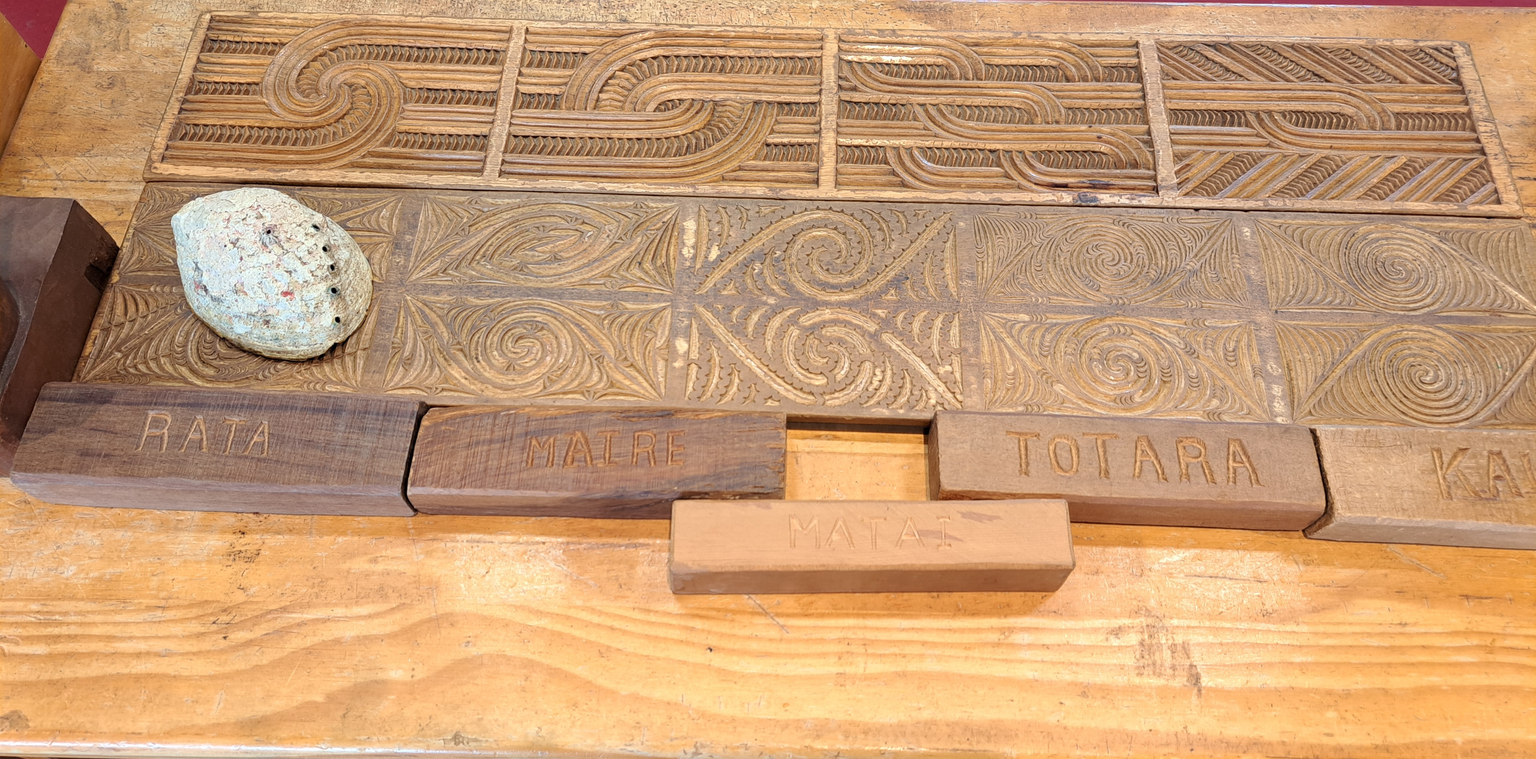
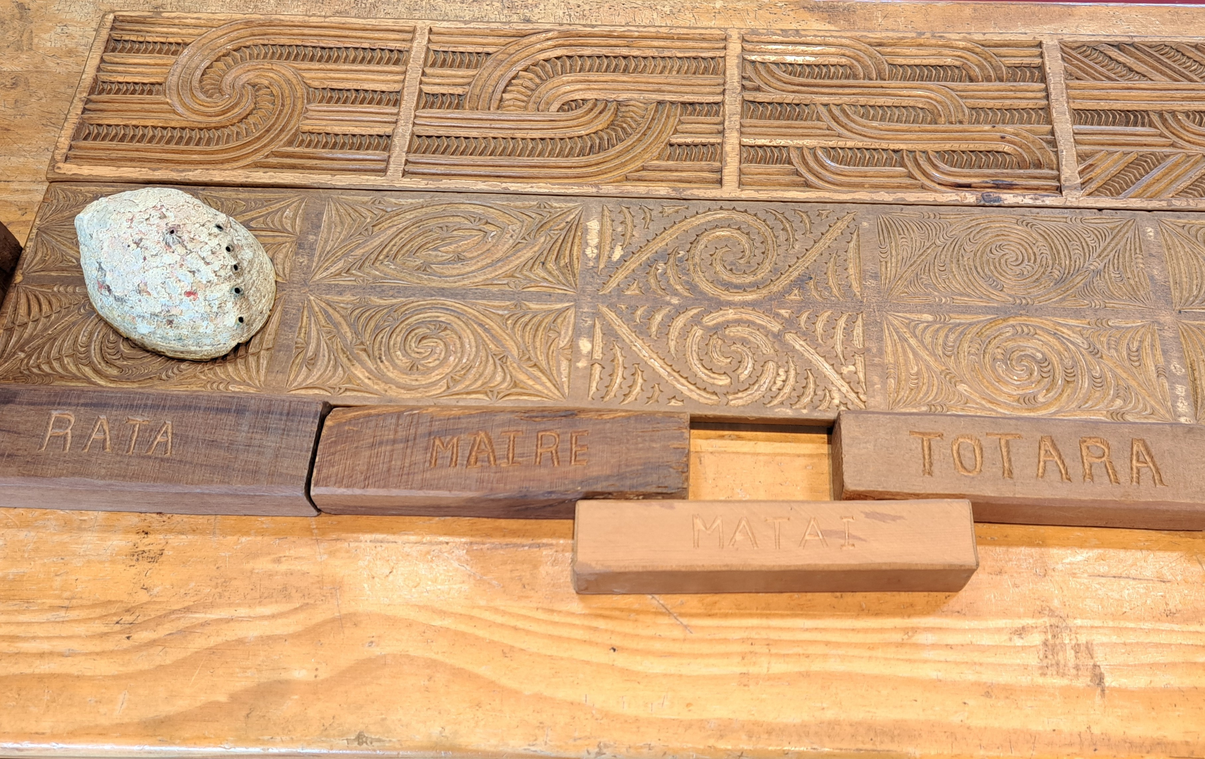
Worked on schools page

diff --git a/Maori Schools.html b/Maori Schools.html
@@ -31,8 +31,24 @@
     </header>
 
     <main>
-
-        
+        <h2>Maori Schools</h2>
+        <p>Intor teasfj sdhfj ksdaf sfhjskdl f fsdjkfl sdfhsdjkfsd fhfhsdjfdsh fdhfjksa sgdasdg asdgfsdjkfl sdfhsdjkfsd fhfhsdjfdsh fdhfjksa sfsdjkfl sdfhsdjkfsd fhfhsdjfdsh fdhfjksa s</p>
+        <section class="two-column">
+            <div>
+                <h3>Maori Wood Carving School</h3>
+                <img class="carving-image" src="Te Puia Resources/20240626_102732.jpg" alt="Carving woods">
+                <p>para</p>
+                <img class="carving-image" src="Te Puia Resources/20240626_103536.jpg">
+                <p>safdsafsad</p>
+            </div>
+            <div>
+                <h3>Maori Bone Carving School</h3>
+                <img class="carving-image" src="Te Puia Resources/greenstone carving.jpeg" alt="Two pounamu necklaces">
+                <p>para</p>
+                <img class="carving-image" src="Te Puia Resources/stone carving.jpg" alt="Stone carving at Te Puia">
+                <p>safdsafsad</p>
+            </div>
+        </section>
     </main>
     
     <footer class="footer">

diff --git a/style.css b/style.css
@@ -52,7 +52,7 @@ nav {
 .hero-text {
     font-size: 100px;
     color: #9e0000;
-    font-family: Archivo Black;
+    font-family: 'Archivo Black';
     position: absolute;
     width: 100%;
     text-align: center;
@@ -72,7 +72,7 @@ img {
 h2 {
     font-size: 32px;
     color: #12680d;
-    font-family: Archivo Black;
+    font-family: 'Archivo Black';
     width: 100%;
     text-align: center;
     text-shadow: #044702 0.4px 1px 0.5px;
@@ -118,7 +118,7 @@ p {
 }
 
 .book-button {
-    width: clamp(30px 0.0003vw 80px);
+    width: 23%;
     margin: 40px 0 0 40px;
     padding: 20px;
     color: #f0f0f0;
@@ -166,7 +166,10 @@ p {
         text-align: center;
         width: 40%;
         margin: 0 auto 50px auto;
-        font-weight: 5px;
+}
+
+h3 {
+    color: #9e0000;
 }
 
 footer {
